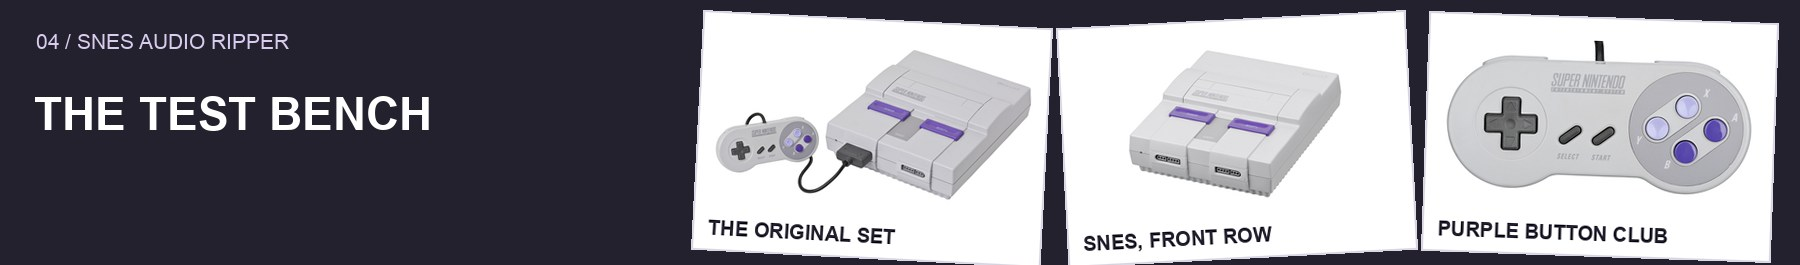
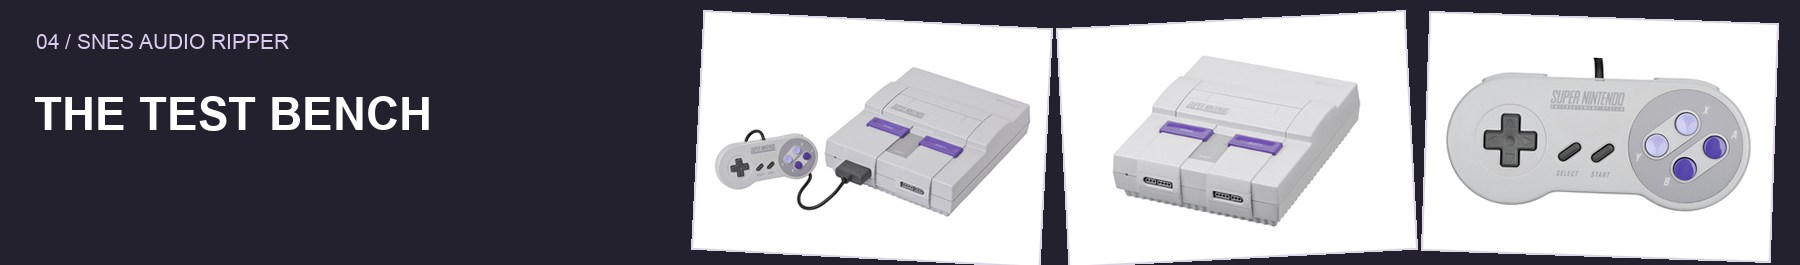
Remove individual photo captions from documentation collages

diff --git a/scripts/make-readme-art.py b/scripts/make-readme-art.py
@@ -20,13 +20,12 @@ def photo(key, size):
     im = Image.open(OUT / 'source' / (key+'.jpg')).convert('RGB')
     return ImageOps.contain(im, size, Image.Resampling.LANCZOS)
 
-def card(base, key, xy, size, label='', angle=0):
+def card(base, key, xy, size, angle=0):
     w,h = size
     tile = Image.new('RGB',size,'white')
-    pic = photo(key,(w-28,h-58))
-    tile.paste(pic,((w-pic.width)//2,12+(h-58-pic.height)//2))
+    pic = photo(key,(w-28,h-28))
+    tile.paste(pic,((w-pic.width)//2,(h-pic.height)//2))
     ImageDraw.Draw(tile).rectangle((0,0,w-1,h-1),outline='#ddd8e5',width=2)
-    if label:text(tile,(16,h-35),label,20,bold=True)
     tile=tile.convert('RGBA').rotate(angle,Image.Resampling.BICUBIC,expand=True)
     base.paste(tile,xy,tile)
 
@@ -34,7 +33,6 @@ def save(im,name):
     im.convert('RGB').save(OUT/(name+'.jpg'),quality=89,optimize=True,progressive=True)
 
 keys=['snes-console','snes-controller','sfc','scope','receiver','sfc-back','mouse','snes-front']
-labels=['THE ORIGINAL SET','PURPLE BUTTON CLUB','SUPER FAMICOM','SUPER SCOPE','SCOPE RECEIVER','AROUND THE BACK','MOUSE + PAD','SNES, FRONT ROW']
 hero=Image.new('RGB',(1800,820),PAPER)
 d=ImageDraw.Draw(hero)
 d.rectangle((760,0,1800,820),fill=LILAC)
@@ -48,9 +46,9 @@ text(hero,(68,535),'Your cartridge. Your soundtrack.',32,INK,True)
 text(hero,(68,587),'Drop a ROM. Extract. Press play.',27)
 d.rounded_rectangle((64,663,593,727),radius=10,fill=PURPLE)
 text(hero,(87,680),'APPLE SILICON  /  MP3 EXPORT',25,'white',True)
-card(hero,'snes-console',(820,46),(870,430),'01 / SUPER NINTENDO',-4)
-card(hero,'sfc',(1110,448),(600,300),'02 / SUPER FAMICOM',5)
-card(hero,'snes-controller',(770,470),(415,245),'03 / PRESS START',-9)
+card(hero,'snes-console',(820,46),(870,430),-4)
+card(hero,'sfc',(1110,448),(600,300),5)
+card(hero,'snes-controller',(770,470),(415,245),-9)
 text(hero,(65,777),'ORIGINAL APP: SAMSQWAMCH  •  PORT: PUNCHBRO + CODEX',18)
 save(hero,'hero')
 sections=[('download','PRESS START',[0,1,7]),('use','DROP. RIP. PLAY.',[1,6,0]),('inside','INSIDE THE SOUND',[2,5,7]),('compatibility','THE TEST BENCH',[0,7,1]),('build','BUILD YOUR OWN',[5,6,2]),('credits','PLAYER TWO',[0,2,1]),('gallery','MORE SNES. YES.',[3,4,6]),('footer','THANKS FOR PLAYING',[7,1,0])]
@@ -61,13 +59,13 @@ for index,(name,title,ids) in enumerate(sections):
     words=title.split(); lines=[title]
     if len(title)>17:lines=[' '.join(words[:-1]),words[-1]]
     for j,line in enumerate(lines):text(im,(34,88+j*58),line,46,'white',True)
-    for j,k in enumerate(ids):card(im,keys[k],(690+j*365,10),(350,240),labels[k],[-3,3,-2][j])
+    for j,k in enumerate(ids):card(im,keys[k],(690+j*365,10),(350,240),[-3,3,-2][j])
     save(im,name)
 wall=Image.new('RGB',(1800,1210),PAPER)
 text(wall,(45,28),'WE MAY HAVE A SUPER NINTENDO PROBLEM.',48,INK,True)
 text(wall,(48,98),'8 real photos. 12 frames. Absolutely no restraint.',27,PURPLE)
 for i,k in enumerate([0,1,2,7,6,3,4,5,2,0,7,1]):
-    card(wall,keys[k],(26+(i%4)*444,161+(i//4)*345),(418,319),f'{i+1:02} / '+labels[k],[-2,2,-1,1][i%4])
+    card(wall,keys[k],(26+(i%4)*444,161+(i//4)*345),(418,319),[-2,2,-1,1][i%4])
 save(wall,'wall')
 for key in keys:
     p=photo(key,(960,600)); tile=Image.new('RGB',(960,600),'white');tile.paste(p,((960-p.width)//2,(600-p.height)//2));save(tile,'photo-'+key)
@@ -77,16 +75,12 @@ print('Composed hero, eight banners, photo wall, and eight gallery images.')
 catalog=json.loads((OUT/'source/catalog.json').read_text())
 def source_path(item):
     return OUT/item.get('local','source/'+item['id']+'.jpg')
-def short_label(item):
-    s=item['file'].rsplit('.',1)[0].replace('Nintendo-','').replace('-',' ').replace('_',' ')
-    return s if len(s)<42 else s[:39]+'...'
-def archive_card(base,item,xy,size,number):
+def archive_card(base,item,xy,size):
     w,h=size;tile=Image.new('RGB',size,'white')
     src=Image.open(source_path(item)).convert('RGB')
-    pic=ImageOps.contain(src,(w-24,h-54),Image.Resampling.LANCZOS)
-    tile.paste(pic,((w-pic.width)//2,10+(h-54-pic.height)//2))
+    pic=ImageOps.contain(src,(w-24,h-24),Image.Resampling.LANCZOS)
+    tile.paste(pic,((w-pic.width)//2,(h-pic.height)//2))
     ImageDraw.Draw(tile).rectangle((0,0,w-1,h-1),outline='#d4c7e9',width=2)
-    text(tile,(12,h-34),f'{number:02} / '+short_label(item),15,INK,True)
     base.paste(tile,xy)
 for sheet in range(8):
     im=Image.new('RGB',(1800,1150),PAPER if sheet%2==0 else LILAC)
@@ -98,6 +92,6 @@ for sheet in range(8):
     text(im,(34,75),f'CONTACT SHEET {sheet+1:02}  /  REAL HARDWARE  /  PUBLIC-DOMAIN PHOTOGRAPHY',20,PURPLE)
     for i in range(20):
         idx=(sheet*17+i)%len(catalog)
-        archive_card(im,catalog[idx],(24+(i%5)*354,126+(i//5)*251),(336,235),idx+1)
+        archive_card(im,catalog[idx],(24+(i%5)*354,126+(i//5)*251),(336,235))
     save(im,f'contact-{sheet+1:02}')
 print(f'Composed 8 additional contact sheets: 160 photo placements from {len(catalog)} source photos.')
